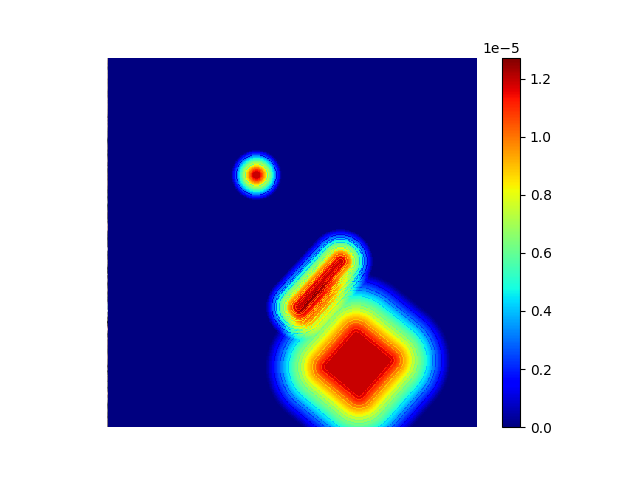
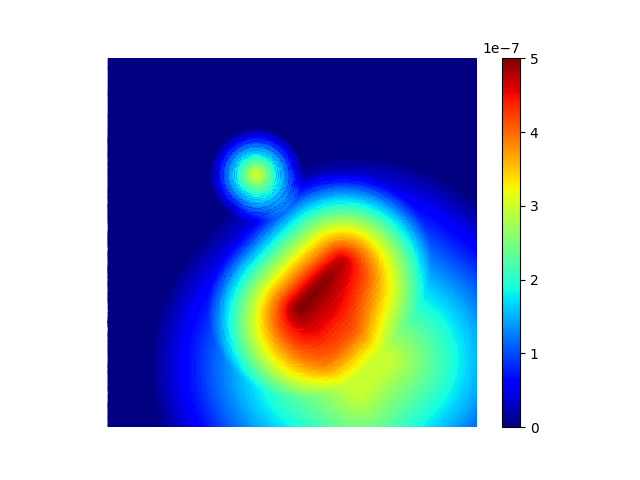
Painter. Риск нужно доделать тепловую карту без matplotlib

diff --git a/painter/gui.py b/painter/gui.py
@@ -1362,6 +1362,13 @@ class Painter(QtWidgets.QMainWindow):
 
     def draw_risk_object(self):
         print("Draw risk")
+        # цвета для отображения результата
+        red = (255, 0, 0, 255)
+        yellow = (255, 255, 0, 255)
+        light_blue = (0, 255, 255, 255)
+        green = (0, 255, 0, 255)
+        blue = (0, 0, 255, 255)
+        purple = (255, 0, 255, 255)
         # проверка базы данных
         if self.is_there_a_database() == False:
             return
@@ -1398,9 +1405,13 @@ class Painter(QtWidgets.QMainWindow):
 
         # На основе исходной картинки создадим QImage и QPixmap
         qimg = QtGui.QImage.fromData(image_data)
-        qimg.save("load_fig.png")
-        im = Image.open("load_fig.png")
-        width, height = im.size
+        pixmap = QtGui.QPixmap.fromImage(qimg)
+        # создадим соразмерный pixmap_zone и сделаем его прозрачным
+        width, height = pixmap.width(), pixmap.height()
+        pixmap_zone = QtGui.QPixmap(width, height)
+        pixmap_zone.fill(QtGui.QColor(0, 0, 0, 0))
+        qimg_zone = pixmap_zone.toImage()
+
         # сделаем нулевую матрицу по размерам картинки
         zeors_array = np.zeros((width, height))
 
@@ -1417,7 +1428,6 @@ class Painter(QtWidgets.QMainWindow):
             obj_type = obj.get("obj_type")
             max_radius = excel[index][-1] * scale_name
             print(max_radius)
-            probability = excel[index][0]
             power = self.power_data(max_radius)
             index += 1
 
@@ -1436,55 +1446,32 @@ class Painter(QtWidgets.QMainWindow):
                 # print(obj_coord)
                 self.calc_el_zeors_array(width, height, obj_coord, power, zeors_array,scale_name)
 
-        zeors_array = zeors_array * probability
-        qimg = QtGui.QImage.fromData(image_data)
-        qimg.save("load_fig.png")
-        im = plt.imread('load_fig.png')
-        plt.imshow(im)
-        plt.pcolormesh(zeors_array, cmap=plt.get_cmap('jet'), alpha=1)  # levels=levels сглаживание
-        plt.axis('off')
-        #plt.gca().inv//ert_yaxis()
-        plt.colorbar()
-        # сохранить тепловую карту
-        plt.savefig('save_fig.png')
-        # Заменить все белые и синие пиксели
-        img = Image.open('save_fig.png')
-        img = img.convert("RGBA")
-        pixdata = img.load()
-        width, height = img.size
-        for y in range(height):
-            for x in range(width):
-                if pixdata[x, y] == (255, 255, 255, 255):
-                    pixdata[x, y] = (0, 0, 0, 0)
-                if pixdata[x, y] == (0, 0, 128, 255):
-                    pixdata[x, y] = (0, 0, 0, 0)
-        img.save("save_fig2.png", "PNG")
-        # Удалить файл без прозрачности
-        os.path.isfile("save_fig.png")
-        # очистить график и нарисовать на карте подложку
-        plt.clf()
-        qimg = QtGui.QImage.fromData(image_data)
-        qimg.save("load_fig.png")
-        im = plt.imread('load_fig.png')
-        plt.imshow(im)
-        plt.pcolormesh(zeors_array, cmap=plt.get_cmap('jet'), alpha=0)
-        plt.colorbar()
-        plt.axis('off')
-        plt.savefig('save_fig3.png')
+        for x in range(width):
+            for y in range(height):
+                if zeors_array[x, y] >= 0.9:
+                    qimg_zone.setPixelColor(x, y, QtGui.QColor(red[0], red[1], red[2], red[3]))
+                elif 0.9 > zeors_array[x, y] >= 0.7:
+                    qimg_zone.setPixelColor(x, y, QtGui.QColor(yellow[0], yellow[1], yellow[2], yellow[3]))
+                elif 0.7 > zeors_array[x, y] >= 0.5:
+                    qimg_zone.setPixelColor(x, y, QtGui.QColor(light_blue[0], light_blue[1], light_blue[2], light_blue[3]))
+                elif 0.5 > zeors_array[x, y] >= 0.3:
+                    qimg_zone.setPixelColor(x, y, QtGui.QColor(green[0], green[1], green[2], green[3]))
+                elif 0.3 > zeors_array[x, y] >= 0.2:
+                    qimg_zone.setPixelColor(x, y, QtGui.QColor(blue[0], blue[1], blue[2], blue[3]))
+                elif 0.2 > zeors_array[x, y] >= 0.1:
+                    qimg_zone.setPixelColor(x, y, QtGui.QColor(purple[0], purple[1], purple[2], purple[3]))
+
+        pixmap_zone = QtGui.QPixmap.fromImage(qimg_zone)
         # Положим одну картинку на другую
-        pixmap = QtGui.QPixmap('save_fig3.png')
-        painter = QtGui.QPainter()
+        painter = QtGui.QPainter(pixmap)
         painter.begin(pixmap)
         painter.setOpacity(self.opacity.value())
-        painter.drawPixmap(0, 0, QtGui.QPixmap('save_fig2.png'))
+        painter.drawPixmap(0, 0, pixmap_zone)
         painter.end()
         # Разместим на сцене pixmap с pixmap_zone
-        self.scene.clear()
         self.scene.addPixmap(pixmap)
         self.scene.setSceneRect(QtCore.QRectF(pixmap.rect()))
-        # Удалить файлы лишние
-        os.path.isfile("save_fig2.png")
-        os.path.isfile("save_fig3.png")
+
 
 
 
